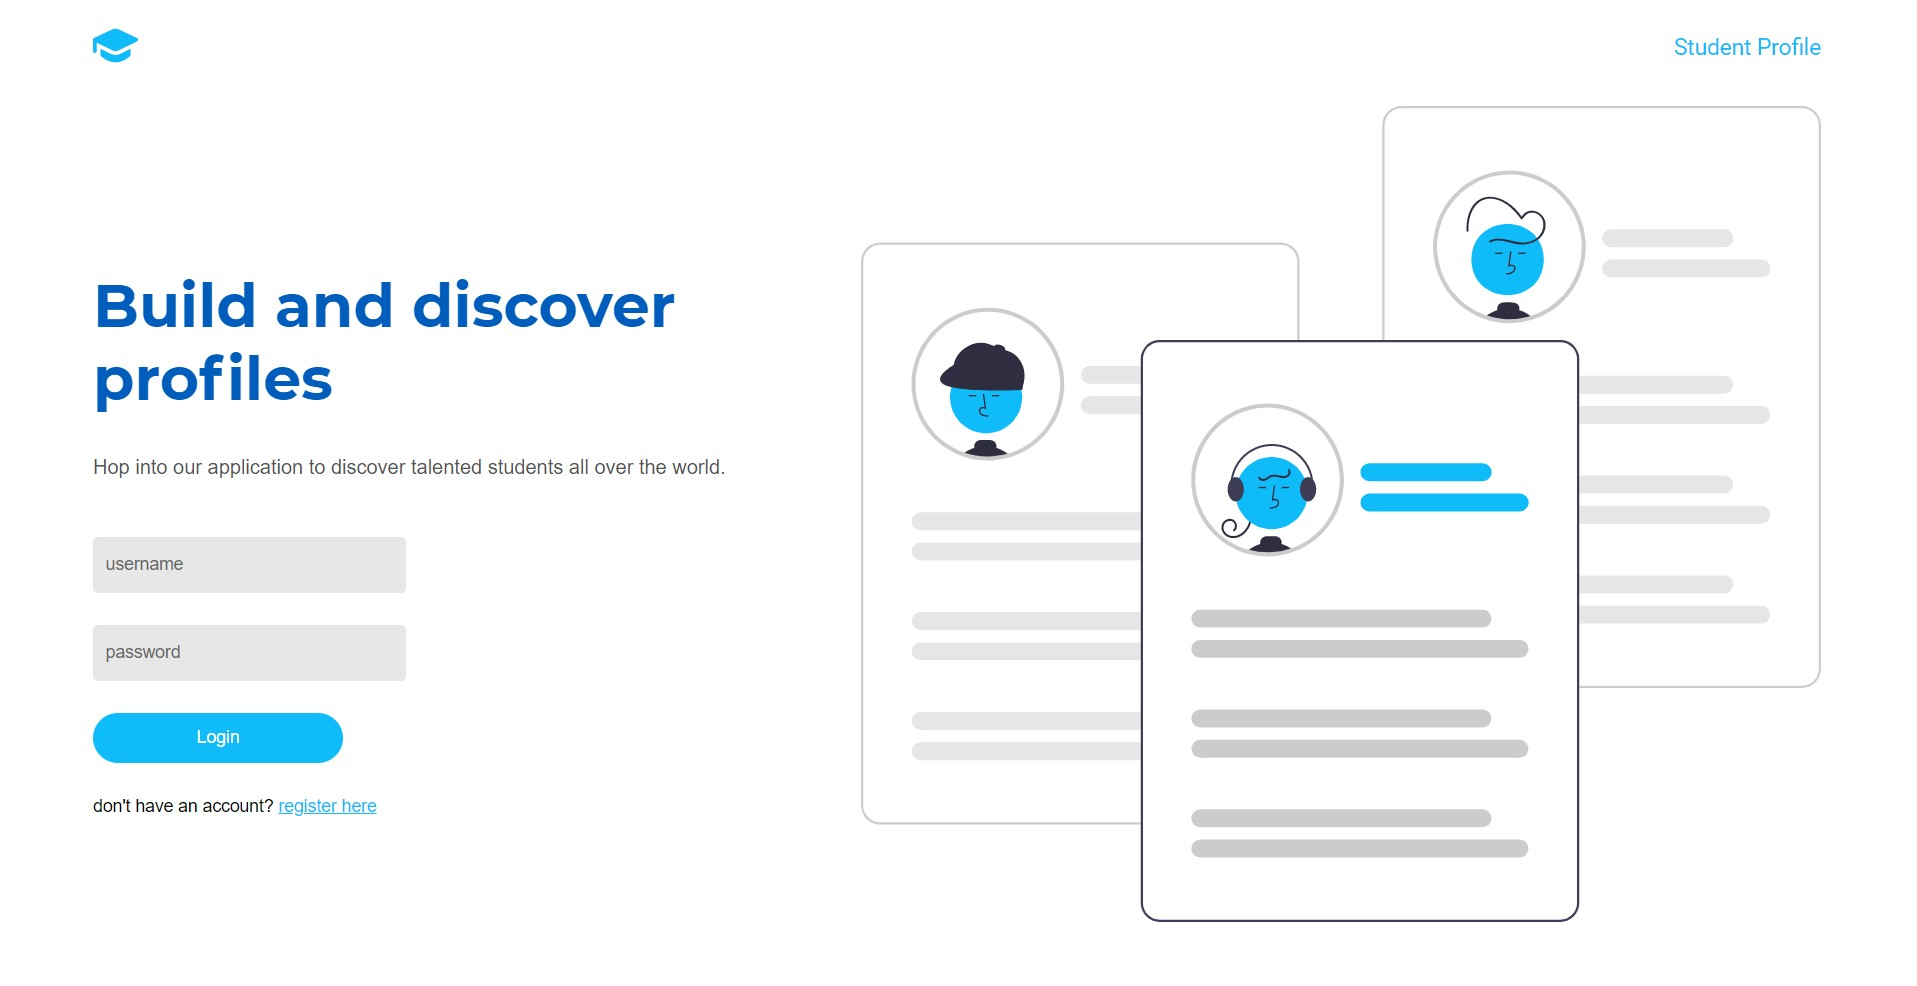
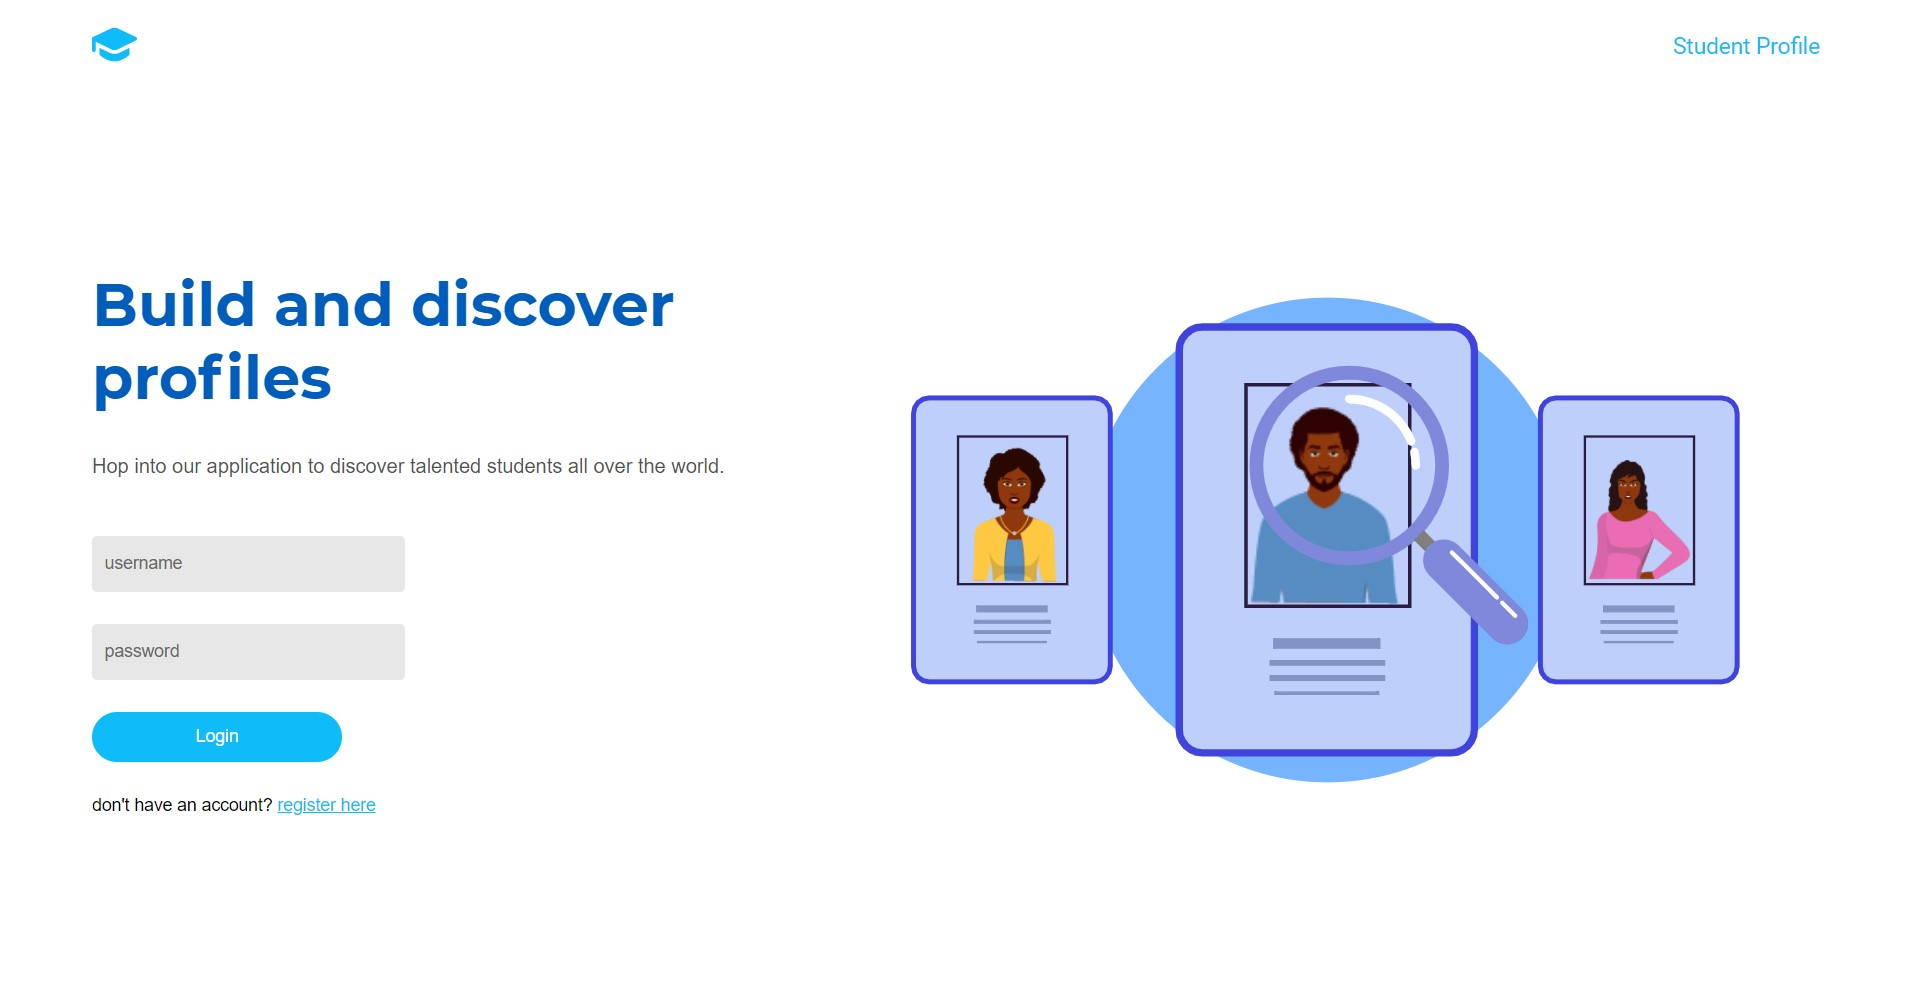
UI illustrations update

diff --git a/Design/styles/signup.scss b/Design/styles/signup.scss
@@ -81,9 +81,10 @@ body{
         }
       }
       #signupForm{
-          width: 40%;
+          width: 60%;
           height: 90%;
           // padding-right: 10%;
+          padding-top: 2%;
           @include flexColumn();
           .title{
               width: 300px;
@@ -104,7 +105,7 @@ body{
             height: 70%;
             @include flexColumn();
             justify-content: flex-start;
-            align-items: flex-end;
+            align-items: flex-start;
             gap: 20px;
           
           .input-field {
@@ -131,7 +132,7 @@ body{
             color: #111;
             // border-radius: 4px;
             // background: #e7e7e7;
-            border: 1px solid #005dbb;
+            border: 1px solid #0060c033;
           }
           input:invalid {
             outline: 0;
@@ -141,14 +142,14 @@ body{
           input:focus,
           input:valid {
             border-color: $primary-color;
-            background: #005dbb18;
+            background: rgba(4, 94, 184, 0.014);
           }
           input:focus~label,
           input:valid~label {
             font-size: 14px;
             top: -30px;
             left: 0;
-            color: $primary-color;
+            // color: $primary-color;
           }
       }
     }

diff --git a/Design/styles/signup.css b/Design/styles/signup.css
@@ -64,8 +64,9 @@ body header p {
 }
 
 body #signupForm {
-  width: 40%;
+  width: 60%;
   height: 90%;
+  padding-top: 2%;
   display: -webkit-box;
   display: -ms-flexbox;
   display: flex;
@@ -140,9 +141,9 @@ body #signupForm .inputFields {
   -webkit-box-pack: start;
       -ms-flex-pack: start;
           justify-content: flex-start;
-  -webkit-box-align: end;
-      -ms-flex-align: end;
-          align-items: flex-end;
+  -webkit-box-align: start;
+      -ms-flex-align: start;
+          align-items: flex-start;
   gap: 20px;
 }
 
@@ -172,7 +173,7 @@ body #signupForm .inputFields input {
   -webkit-box-shadow: none;
           box-shadow: none;
   color: #111;
-  border: 1px solid #005dbb;
+  border: 1px solid #0060c033;
 }
 
 body #signupForm .inputFields input:invalid {
@@ -182,7 +183,7 @@ body #signupForm .inputFields input:invalid {
 body #signupForm .inputFields input:focus,
 body #signupForm .inputFields input:valid {
   border-color: #0fbcf9;
-  background: #005dbb18;
+  background: rgba(4, 94, 184, 0.014);
 }
 
 body #signupForm .inputFields input:focus ~ label,
@@ -190,7 +191,6 @@ body #signupForm .inputFields input:valid ~ label {
   font-size: 14px;
   top: -30px;
   left: 0;
-  color: #0fbcf9;
 }
 
 body .bgIllustration {

diff --git a/Design/styles/Login.scss b/Design/styles/Login.scss
@@ -81,21 +81,14 @@ $gradient-light:#0875e0;
       }
     }
     
-    .IllustrationContainer{
-        width: 50%;
-        height: 100%;
-        img{
-          width: 100%;
-          height: 100%;
-          object-fit: contain;
-        }
-    }
+    
     .LeftPanel{
-        width: 40%;
+        width: 60%;
         height: 70%;
         @include flexColumn();
         justify-content: space-evenly;
         align-items: flex-start;
+        padding-left: 5%;
     .Introtext{
         width: 100%;
         height: 40%;
@@ -118,6 +111,7 @@ $gradient-light:#0875e0;
         
     }
     .LoginForm {
+            width: 50%;
             height: 50%;
             @include flexColumn();
             justify-content: space-around;

diff --git a/Design/html/signup.html b/Design/html/signup.html
@@ -8,6 +8,7 @@
     <link rel="stylesheet" href="../styles/signup.css">
 </head>
 <body>
+    <script src="https://unpkg.com/@lottiefiles/lottie-player@latest/dist/lottie-player.js"></script>
     <header>
         <div class="Logo">
             <a href="./login.html">
@@ -17,7 +18,6 @@
         <p>Student Profile</p>
     </header>
     
-    <img src="../media/illustrations/signup.svg" alt="" class="bgIllustration">
     <div id="signupForm">
         <div class="title">
             Signup
@@ -48,5 +48,8 @@
             </button>
         </form>
     </div>
+    <lottie-player src="../media/json animations/signup.json" background="transparent"  speed="1"  loop autoplay></lottie-player>
+    
+
 </body>
 </html>

diff --git a/Design/styles/Login.css b/Design/styles/Login.css
@@ -64,20 +64,8 @@
   color: #0fbcf9;
 }
 
-#root .LoginPage .IllustrationContainer {
-  width: 50%;
-  height: 100%;
-}
-
-#root .LoginPage .IllustrationContainer img {
-  width: 100%;
-  height: 100%;
-  -o-object-fit: contain;
-     object-fit: contain;
-}
-
 #root .LoginPage .LeftPanel {
-  width: 40%;
+  width: 60%;
   height: 70%;
   display: -webkit-box;
   display: -ms-flexbox;
@@ -99,6 +87,7 @@
   -webkit-box-align: start;
       -ms-flex-align: start;
           align-items: flex-start;
+  padding-left: 5%;
 }
 
 #root .LoginPage .LeftPanel .Introtext {
@@ -139,6 +128,7 @@
 }
 
 #root .LoginPage .LeftPanel .LoginForm {
+  width: 50%;
   height: 50%;
   display: -webkit-box;
   display: -ms-flexbox;

diff --git a/Design/html/login.html b/Design/html/login.html
@@ -8,6 +8,7 @@
     <link rel="stylesheet" href="../styles/Login.css">
 </head>
 <body id="root">
+    <script src="https://unpkg.com/@lottiefiles/lottie-player@latest/dist/lottie-player.js"></script>
     <div  class="LoginPage">
     <header>
         <div class="Logo">
@@ -41,9 +42,7 @@
             </div>
         </form>
     </div>
-    <div class="IllustrationContainer">
-        <img class="Illustration" src="../media/illustrations/loginIllustro1.svg"/>
-    </div>
+    <lottie-player src="../media/json animations/signin.json" background="transparent"  speed="1"   loop autoplay></lottie-player>
     </div>
      
     

diff --git a/Design/styles/search.scss b/Design/styles/search.scss
@@ -170,6 +170,8 @@ body{
                 grid-gap: 5px;
                 overflow-y: auto;
                 padding: 10px;
+                background: rgb(238, 238, 238);
+                margin-left: 15px;
                 .skill{
                     width: fit-content;
                     padding: 5px;

diff --git a/Design/styles/search.css b/Design/styles/search.css
@@ -268,6 +268,8 @@ body .filters .filterSwitches .skillsEntries {
   grid-gap: 5px;
   overflow-y: auto;
   padding: 10px;
+  background: #eeeeee;
+  margin-left: 15px;
 }
 
 body .filters .filterSwitches .skillsEntries .skill {

diff --git a/README.md b/README.md
@@ -14,7 +14,7 @@ It also allows the user to search for a particular student in the database and v
 </p>
 <p>
   Signup page
-  <img src="https://github.com/KarthikeyanRV2601/student-profile/raw/develop/screenshots/signiup.jpg"/>
+  <img src="https://github.com/KarthikeyanRV2601/student-profile/raw/develop/screenshots/signup.jpg"/>
 </p>
 <p>
   Dashboard 1
